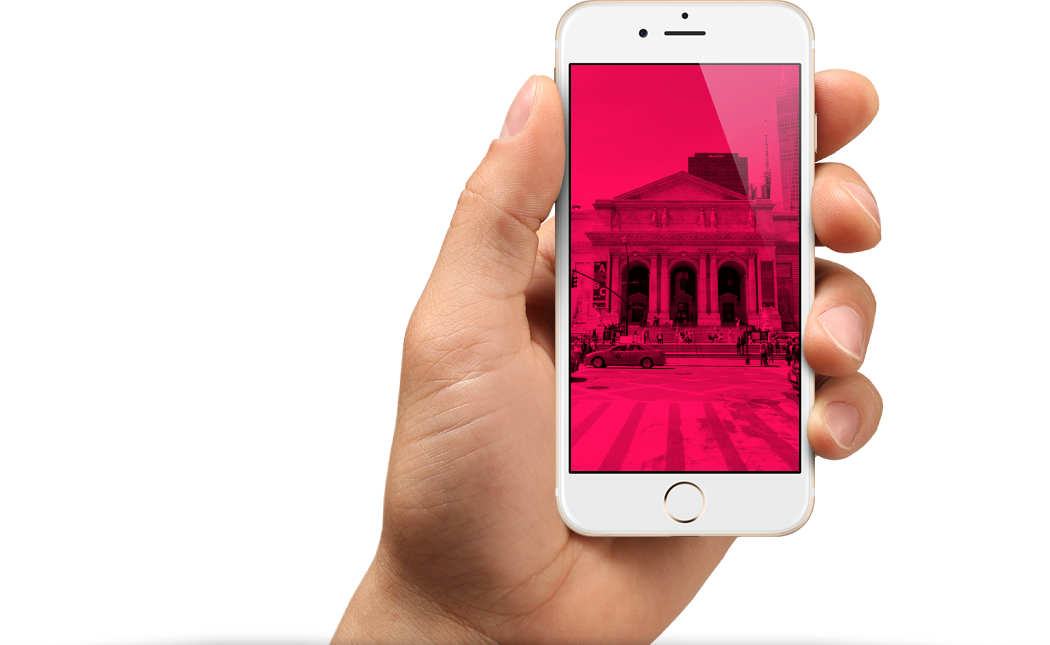
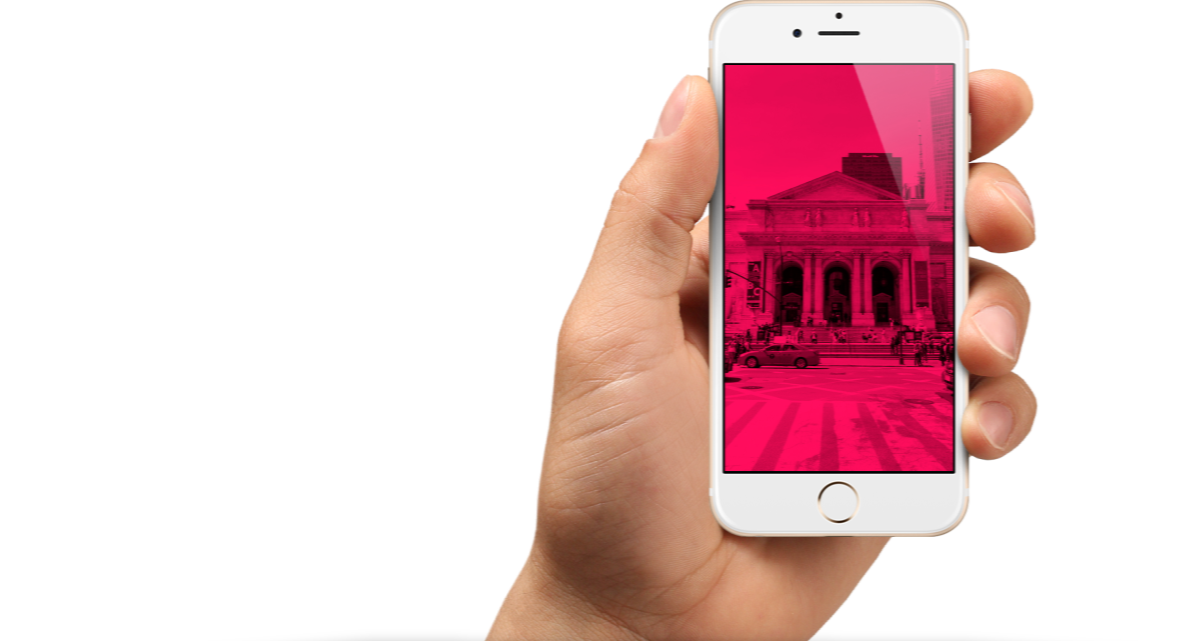
Выполнил стилизацию блока загрузки приложения

Changed region(s): [[0.1524, 0.0, 0.8838, 1.0]]

diff --git a/source/index.html b/source/index.html
@@ -6,23 +6,23 @@
     <link href="css/style.css" rel="stylesheet">
   </head>
   <body class="page__body">
-    <header class="page-header page-header--navigation-closed ">
+    <header class="page-header">
       <div class="page-header__logo logo">
         <a class="logo__link">
-          <svg class="logo__image logo__image--mobile" width="74" height="23" viewBox="0 0 74 23" fill="none" xmlns="http://www.w3.org/2000/svg">
+          <svg class="logo__image logo__image--main-page logo__image--mobile" width="74" height="23" viewBox="0 0 74 23" fill="none" xmlns="http://www.w3.org/2000/svg">
             <path d="M0.00496827 1.54857C0.00487772 1.21254 0.135804 0.889818 0.369742 0.649431C0.60368 0.409043 0.922049 0.27008 1.25676 0.262266H8.39001C13.4469 0.262266 16.7751 2.9645 16.7751 7.39179V7.45162C16.7751 12.2977 12.7415 14.8105 7.97274 14.8105H2.53836V21.611C2.55394 21.7874 2.53277 21.9651 2.47619 22.1329C2.41961 22.3006 2.32887 22.4547 2.20973 22.5854C2.09058 22.716 1.94565 22.8204 1.78416 22.8918C1.62266 22.9631 1.44812 23 1.27166 23C1.0952 23 0.920671 22.9631 0.759173 22.8918C0.597674 22.8204 0.452744 22.716 0.333602 22.5854C0.21446 22.4547 0.123708 22.3006 0.0671295 22.1329C0.0105515 21.9651 -0.0106138 21.7874 0.00496827 21.611V1.54857ZM8.07209 12.5171C11.7778 12.5171 14.2119 10.5228 14.2119 7.53139V7.47156C14.2119 4.26078 11.8175 2.59556 8.25092 2.59556H2.58804V12.4772L8.07209 12.5171Z" fill="white"/>
             <path d="M21.5935 1.38904C21.5779 1.21262 21.5991 1.03487 21.6556 0.867114C21.7122 0.699353 21.803 0.545245 21.9221 0.414596C22.0412 0.283947 22.1862 0.179616 22.3477 0.108238C22.5092 0.0368607 22.6837 0 22.8602 0C23.0366 0 23.2112 0.0368607 23.3727 0.108238C23.5342 0.179616 23.6791 0.283947 23.7982 0.414596C23.9174 0.545245 24.0081 0.699353 24.0647 0.867114C24.1213 1.03487 24.1425 1.21262 24.1269 1.38904V21.611C24.1425 21.7874 24.1213 21.9651 24.0647 22.1329C24.0081 22.3006 23.9174 22.4548 23.7982 22.5854C23.6791 22.7161 23.5342 22.8204 23.3727 22.8918C23.2112 22.9631 23.0366 23 22.8602 23C22.6837 23 22.5092 22.9631 22.3477 22.8918C22.1862 22.8204 22.0412 22.7161 21.9221 22.5854C21.803 22.4548 21.7122 22.3006 21.6556 22.1329C21.5991 21.9651 21.5779 21.7874 21.5935 21.611V1.38904Z" fill="white"/>
             <path d="M30.674 1.41895C30.6816 1.08908 30.8163 0.775007 31.0497 0.542621C31.2831 0.310235 31.597 0.177597 31.9258 0.172531H32.2735C32.5316 0.177833 32.7843 0.248188 33.0082 0.377127C33.2322 0.506065 33.4202 0.689448 33.5551 0.910412L47.1559 18.3104V1.35912C47.1559 1.0312 47.2857 0.7167 47.5168 0.484821C47.7478 0.252942 48.0611 0.122673 48.3879 0.122673C48.7146 0.122673 49.0279 0.252942 49.259 0.484821C49.49 0.7167 49.6198 1.0312 49.6198 1.35912V21.6508C49.6252 21.8051 49.5993 21.9589 49.5435 22.1028C49.4878 22.2467 49.4034 22.3777 49.2956 22.4878C49.1877 22.5979 49.0587 22.6848 48.9163 22.7432C48.7739 22.8016 48.6211 22.8303 48.4673 22.8275H48.3382C48.0744 22.8092 47.8184 22.7294 47.5908 22.5944C47.3631 22.4593 47.17 22.2728 47.0268 22.0497L33.1179 4.24085V21.6508C33.1158 21.9722 32.991 22.2805 32.7692 22.5124C32.5474 22.7442 32.2456 22.882 31.9258 22.8973C31.6008 22.892 31.291 22.7581 31.064 22.5246C30.8369 22.2911 30.711 21.9771 30.7137 21.6508V1.41895H30.674Z" fill="white"/>
             <path d="M55.9384 1.38904C55.9228 1.21262 55.944 1.03487 56.0005 0.867114C56.0571 0.699353 56.1479 0.545245 56.267 0.414596C56.3862 0.283947 56.5311 0.179616 56.6926 0.108238C56.8541 0.0368607 57.0286 0 57.2051 0C57.3815 0 57.5561 0.0368607 57.7176 0.108238C57.8791 0.179616 58.024 0.283947 58.1431 0.414596C58.2623 0.545245 58.353 0.699353 58.4096 0.867114C58.4662 1.03487 58.4874 1.21262 58.4718 1.38904V13.6837L71.2282 0.551443C71.4899 0.279712 71.8455 0.119105 72.2216 0.10273C72.5468 0.115453 72.8548 0.252812 73.0821 0.486531C73.3094 0.72025 73.4388 1.03254 73.4436 1.35912C73.4366 1.52896 73.3961 1.69572 73.3245 1.84975C73.2529 2.00379 73.1516 2.14205 73.0264 2.25655L65.0785 10.1539L73.6523 20.6836C73.8764 20.9441 73.9998 21.2768 74 21.6209C73.9961 21.7933 73.9583 21.9633 73.8887 22.121C73.8191 22.2786 73.719 22.4209 73.5943 22.5395C73.4696 22.6582 73.3228 22.7509 73.1622 22.8123C73.0016 22.8737 72.8305 22.9026 72.6588 22.8973C72.4588 22.8891 72.2639 22.8322 72.0908 22.7314C71.9177 22.6306 71.7716 22.4891 71.6653 22.3189L63.3001 11.859L58.4718 16.7051V21.591C58.4718 21.7573 58.4391 21.922 58.3757 22.0756C58.3123 22.2293 58.2194 22.3689 58.1022 22.4865C57.9851 22.6041 57.846 22.6973 57.6929 22.761C57.5398 22.8246 57.3757 22.8574 57.21 22.8574C57.0443 22.8574 56.8803 22.8246 56.7272 22.761C56.5741 22.6973 56.435 22.6041 56.3179 22.4865C56.2007 22.3689 56.1078 22.2293 56.0443 22.0756C55.9809 21.922 55.9483 21.7573 55.9483 21.591V1.38904H55.9384Z" fill="white"/>
           </svg>
-          <svg class="logo__image logo__image--tablet" width="145" height="40" viewBox="0 0 145 40" fill="none" xmlns="http://www.w3.org/2000/svg">
+          <svg class="logo__image logo__image--main-page logo__image--tablet" width="145" height="40" viewBox="0 0 145 40" fill="none" xmlns="http://www.w3.org/2000/svg">
             <path fill-rule="evenodd" clip-rule="evenodd" d="M53.8917 6.58616L58.9302 27.7312C59.0013 27.9491 59.0184 28.1815 58.98 28.4078C58.9417 28.6341 58.849 28.8472 58.7102 29.0284C58.5715 29.2096 58.3909 29.3532 58.1845 29.4465C57.978 29.5398 57.7522 29.58 57.5268 29.5635H53.5201C52.8298 35.3747 47.9494 39.8784 42.0315 39.8784C36.1136 39.8784 31.2332 35.3747 30.543 29.5635H28.5778C27.8869 35.442 22.9527 40 16.9685 40C10.9742 40 6.0335 35.4266 5.35571 29.5337H1.45014C1.22961 29.5445 1.00974 29.5014 0.808914 29.4082C0.608085 29.315 0.432119 29.1743 0.295711 28.9979C0.159304 28.8214 0.0664152 28.6144 0.0248022 28.3941C-0.0168108 28.1737 -0.00593994 27.9464 0.0565069 27.7312L5.10477 6.58616C5.45562 4.25872 7.63865 0 13.4861 0C13.8738 0 14.2456 0.156518 14.5197 0.435122C14.7939 0.713727 14.9479 1.0916 14.9479 1.4856C14.9479 1.87961 14.7939 2.25748 14.5197 2.53608C14.2456 2.81468 13.8738 2.9712 13.4861 2.9712C8.7789 2.9712 8.04797 6.6654 7.9895 7.07146L3.3408 26.6022H5.37467C6.12089 20.7847 11.0272 16.2918 16.9685 16.2918C22.9066 16.2918 27.8107 20.7798 28.5611 26.5926L30.5587 26.6017C31.3043 20.8518 36.1567 16.4134 42.0315 16.4134C47.9178 16.4134 52.7776 20.8691 53.5086 26.6353V26.5824H55.6459L51.007 7.07146C50.9387 6.6654 50.237 2.9712 45.5104 2.9712C45.1227 2.9712 44.7509 2.81468 44.4767 2.53608C44.2026 2.25748 44.0485 1.87961 44.0485 1.4856C44.0485 1.0916 44.2026 0.713727 44.4767 0.435122C44.7509 0.156518 45.1227 0 45.5104 0C51.3578 0 53.5408 4.25872 53.8917 6.58616ZM25.6722 29.5635C25.7448 29.1018 25.7825 28.6283 25.7825 28.1459C25.7825 27.6164 25.7371 27.0977 25.65 26.5935C24.9252 22.3982 21.3141 19.2097 16.9685 19.2097C12.6203 19.2097 9.00753 22.402 8.28571 26.601C8.19945 27.1028 8.15447 27.619 8.15447 28.1459C8.15447 28.6205 8.19096 29.0864 8.26125 29.541C8.92191 33.8136 12.5687 37.0821 16.9685 37.0821C21.3605 37.0821 25.0023 33.8251 25.6722 29.5635ZM50.6138 29.5635C50.6874 29.102 50.7256 28.6285 50.7256 28.1459C50.7256 23.2777 46.8331 19.3313 42.0315 19.3313C37.2299 19.3313 33.3374 23.2777 33.3374 28.1459C33.3374 28.6285 33.3756 29.102 33.4492 29.5635C34.118 33.7577 37.7058 36.9605 42.0315 36.9605C46.3572 36.9605 49.945 33.7577 50.6138 29.5635Z" fill="white"/>
             <path d="M71.005 18.5486C71.0049 18.2125 71.1358 17.8898 71.3697 17.6494C71.6037 17.409 71.9221 17.2701 72.2568 17.2623H79.39C84.4469 17.2623 87.7751 19.9645 87.7751 24.3918V24.4516C87.7751 29.2977 83.7415 31.8105 78.9727 31.8105H73.5384V38.611C73.5539 38.7874 73.5328 38.9651 73.4762 39.1329C73.4196 39.3006 73.3289 39.4547 73.2097 39.5854C73.0906 39.716 72.9457 39.8204 72.7842 39.8918C72.6227 39.9631 72.4481 40 72.2717 40C72.0952 40 71.9207 39.9631 71.7592 39.8918C71.5977 39.8204 71.4527 39.716 71.3336 39.5854C71.2145 39.4547 71.1237 39.3006 71.0671 39.1329C71.0106 38.9651 70.9894 38.7874 71.005 38.611V18.5486ZM79.0721 29.5171C82.7778 29.5171 85.2119 27.5228 85.2119 24.5314V24.4716C85.2119 21.2608 82.8175 19.5956 79.2509 19.5956H73.588V29.4772L79.0721 29.5171Z" fill="white"/>
             <path d="M92.5935 18.389C92.5779 18.2126 92.5991 18.0349 92.6556 17.8671C92.7122 17.6994 92.803 17.5452 92.9221 17.4146C93.0412 17.2839 93.1862 17.1796 93.3477 17.1082C93.5092 17.0369 93.6837 17 93.8602 17C94.0366 17 94.2112 17.0369 94.3727 17.1082C94.5342 17.1796 94.6791 17.2839 94.7982 17.4146C94.9174 17.5452 95.0081 17.6994 95.0647 17.8671C95.1213 18.0349 95.1424 18.2126 95.1269 18.389V38.611C95.1424 38.7874 95.1213 38.9651 95.0647 39.1329C95.0081 39.3006 94.9174 39.4548 94.7982 39.5854C94.6791 39.7161 94.5342 39.8204 94.3727 39.8918C94.2112 39.9631 94.0366 40 93.8602 40C93.6837 40 93.5092 39.9631 93.3477 39.8918C93.1862 39.8204 93.0412 39.7161 92.9221 39.5854C92.803 39.4548 92.7122 39.3006 92.6556 39.1329C92.5991 38.9651 92.5779 38.7874 92.5935 38.611V18.389Z" fill="white"/>
             <path d="M101.674 18.419C101.682 18.0891 101.816 17.775 102.05 17.5426C102.283 17.3102 102.597 17.1776 102.926 17.1725H103.273C103.532 17.1778 103.784 17.2482 104.008 17.3771C104.232 17.5061 104.42 17.6894 104.555 17.9104L118.156 35.3104V18.3591C118.156 18.0312 118.286 17.7167 118.517 17.4848C118.748 17.2529 119.061 17.1227 119.388 17.1227C119.715 17.1227 120.028 17.2529 120.259 17.4848C120.49 17.7167 120.62 18.0312 120.62 18.3591V38.6508C120.625 38.8051 120.599 38.9589 120.544 39.1028C120.488 39.2467 120.403 39.3777 120.296 39.4878C120.188 39.5979 120.059 39.6848 119.916 39.7432C119.774 39.8016 119.621 39.8303 119.467 39.8275H119.338C119.074 39.8092 118.818 39.7294 118.591 39.5944C118.363 39.4594 118.17 39.2728 118.027 39.0497L104.118 21.2408V38.6508C104.116 38.9722 103.991 39.2805 103.769 39.5124C103.547 39.7442 103.246 39.882 102.926 39.8973C102.601 39.892 102.291 39.7581 102.064 39.5246C101.837 39.2911 101.711 38.9771 101.714 38.6508V18.419H101.674Z" fill="white"/>
             <path d="M126.938 18.389C126.923 18.2126 126.944 18.0349 127.001 17.8671C127.057 17.6994 127.148 17.5452 127.267 17.4146C127.386 17.2839 127.531 17.1796 127.693 17.1082C127.854 17.0369 128.029 17 128.205 17C128.382 17 128.556 17.0369 128.718 17.1082C128.879 17.1796 129.024 17.2839 129.143 17.4146C129.262 17.5452 129.353 17.6994 129.41 17.8671C129.466 18.0349 129.487 18.2126 129.472 18.389V30.6837L142.228 17.5514C142.49 17.2797 142.845 17.1191 143.222 17.1027C143.547 17.1155 143.855 17.2528 144.082 17.4865C144.309 17.7202 144.439 18.0325 144.444 18.3591C144.437 18.529 144.396 18.6957 144.325 18.8498C144.253 19.0038 144.152 19.1421 144.026 19.2565L136.078 27.1539L144.652 37.6836C144.876 37.9441 145 38.2768 145 38.6209C144.996 38.7933 144.958 38.9633 144.889 39.121C144.819 39.2786 144.719 39.4209 144.594 39.5395C144.47 39.6582 144.323 39.7509 144.162 39.8123C144.002 39.8737 143.831 39.9026 143.659 39.8973C143.459 39.8891 143.264 39.8322 143.091 39.7314C142.918 39.6306 142.772 39.4891 142.665 39.3189L134.3 28.859L129.472 33.7051V38.591C129.472 38.7573 129.439 38.922 129.376 39.0756C129.312 39.2293 129.219 39.3689 129.102 39.4865C128.985 39.6041 128.846 39.6973 128.693 39.761C128.54 39.8246 128.376 39.8574 128.21 39.8574C128.044 39.8574 127.88 39.8246 127.727 39.761C127.574 39.6973 127.435 39.6041 127.318 39.4865C127.201 39.3689 127.108 39.2293 127.044 39.0756C126.981 38.922 126.948 38.7573 126.948 38.591V18.389H126.938Z" fill="white"/>
           </svg>
-          <svg class="logo__image logo__image--desktop" width="147" height="40" viewBox="0 0 147 40" fill="none" xmlns="http://www.w3.org/2000/svg">
+          <svg class="logo__image logo__image--main-page logo__image--desktop" width="147" height="40" viewBox="0 0 147 40" fill="none" xmlns="http://www.w3.org/2000/svg">
             <path d="M72.1933 18.4249C72.1932 18.0921 72.3255 17.7726 72.562 17.5345C72.7985 17.2965 73.1204 17.1589 73.4588 17.1511H80.6703C85.7826 17.1511 89.1473 19.827 89.1473 24.211V24.2703C89.1473 29.069 85.0695 31.5573 80.2484 31.5573H74.7544V38.2913C74.7702 38.466 74.7488 38.6421 74.6916 38.8082C74.6344 38.9743 74.5426 39.1269 74.4222 39.2563C74.3017 39.3856 74.1552 39.489 73.992 39.5596C73.8287 39.6303 73.6522 39.6668 73.4738 39.6668C73.2954 39.6668 73.119 39.6303 72.9557 39.5596C72.7925 39.489 72.6459 39.3856 72.5255 39.2563C72.405 39.1269 72.3133 38.9743 72.2561 38.8082C72.1989 38.6421 72.1775 38.466 72.1933 38.2913V18.4249ZM80.3489 29.2863C84.0952 29.2863 86.556 27.3115 86.556 24.3493V24.29C86.556 21.1106 84.1354 19.4616 80.5297 19.4616H74.8047V29.2468L80.3489 29.2863Z" fill="white"/>
             <path d="M94.0186 18.2669C94.0028 18.0922 94.0242 17.9162 94.0814 17.7501C94.1386 17.5839 94.2304 17.4313 94.3508 17.302C94.4713 17.1726 94.6178 17.0693 94.781 16.9986C94.9443 16.9279 95.1208 16.8914 95.2992 16.8914C95.4776 16.8914 95.654 16.9279 95.8173 16.9986C95.9806 17.0693 96.1271 17.1726 96.2475 17.302C96.368 17.4313 96.4597 17.5839 96.5169 17.7501C96.5741 17.9162 96.5955 18.0922 96.5798 18.2669V38.2913C96.5955 38.466 96.5741 38.642 96.5169 38.8082C96.4597 38.9743 96.368 39.1269 96.2475 39.2563C96.1271 39.3856 95.9806 39.489 95.8173 39.5596C95.654 39.6303 95.4776 39.6668 95.2992 39.6668C95.1208 39.6668 94.9443 39.6303 94.781 39.5596C94.6178 39.489 94.4713 39.3856 94.3508 39.2563C94.2304 39.1269 94.1386 38.9743 94.0814 38.8082C94.0242 38.642 94.0028 38.466 94.0186 38.2913V18.2669Z" fill="white"/>
             <path d="M103.199 18.2965C103.206 17.9699 103.343 17.6588 103.579 17.4287C103.815 17.1986 104.132 17.0673 104.464 17.0623H104.816C105.077 17.0675 105.332 17.1372 105.559 17.2649C105.785 17.3925 105.975 17.5741 106.111 17.7929L119.862 35.0231V18.2373C119.862 17.9125 119.993 17.6011 120.226 17.3715C120.46 17.1419 120.777 17.0129 121.107 17.0129C121.437 17.0129 121.754 17.1419 121.988 17.3715C122.221 17.6011 122.352 17.9125 122.352 18.2373V38.3308C122.358 38.4836 122.332 38.6359 122.275 38.7784C122.219 38.9209 122.134 39.0506 122.025 39.1596C121.916 39.2687 121.785 39.3547 121.641 39.4125C121.497 39.4704 121.343 39.4987 121.187 39.496H121.057C120.79 39.4779 120.531 39.3989 120.301 39.2652C120.071 39.1314 119.876 38.9468 119.731 38.7258L105.67 21.0908V38.3308C105.667 38.6491 105.541 38.9544 105.317 39.184C105.093 39.4135 104.788 39.5499 104.464 39.5651C104.136 39.5599 103.823 39.4272 103.593 39.1961C103.363 38.9649 103.236 38.6539 103.239 38.3308V18.2965H103.199Z" fill="white"/>
@@ -36,7 +36,7 @@
           </svg>
         </a>
       </div>
-      <nav class="page-header__navigation navigation navigation--closed">
+      <nav class="page-header__navigation navigation navigation--opened">
         <div class="navigation__toggle-wrapper">
           <button class="page-header__button navigation__toggle" type="button">
             <span class="visually-hidden">Открыть меню</span>
@@ -44,16 +44,16 @@
         </div>
         <ul class="navigation__list">
           <li class="navigation__item">
-            <a class="navigation__link navigation__link--current" href="#">Главная</a>
+            <a class="navigation__link navigation__link--current">Главная</a>
           </li>
           <li class="navigation__item">
-            <a class="navigation__link" href="#">Фотографии</a>
+            <a class="navigation__link" href="photo.html">Фотографии</a>
           </li>
           <li class="navigation__item">
-            <a class="navigation__link" href="#">Конкурс</a>
+            <a class="navigation__link" href="form.html">Конкурс</a>
           </li>
           <li class="navigation__item">
-            <a class="navigation__link" href="#">HTML Academy</a>
+            <a class="navigation__link" href="https://htmlacademy.ru/">HTML Academy</a>
           </li>
         </ul>
       </nav>
@@ -266,5 +266,24 @@
         </a>
       </div>
     </footer> -->
+    <script>
+      const navigationToggle = document.querySelector(".navigation__toggle");
+      const navigationList = document.querySelector(".navigation");
+      const pageHeader = document.querySelector(".page-header");
+
+      navigationToggle.addEventListener("click", function(evt) {
+        if (navigationList.classList.contains("navigation--closed")) {
+          evt.preventDefault();
+          navigationList.classList.add("navigation--opened");
+          navigationList.classList.remove("navigation--closed");
+          pageHeader.classList.remove("page-header--navigation-closed");
+        } else {
+          evt.preventDefault();
+          navigationList.classList.remove("navigation--opened");
+          navigationList.classList.add("navigation--closed");
+          pageHeader.classList.add("page-header--navigation-closed");
+        }
+      });
+    </script>
   </body>
 </html>

diff --git a/source/sass/blocks/download.scss b/source/sass/blocks/download.scss
@@ -6,7 +6,6 @@
   background-repeat: no-repeat;
   background-position: center 177px, center top;
   background-size: auto 286px, auto 462px;
-  // padding-bottom: 28px;
 
   @media (min-width: $tablet-width) {
     height: 729px;
@@ -15,54 +14,69 @@
     background-position: center bottom, center bottom;
     display: grid;
     grid-template-columns: 1fr 1fr;
-    // padding-top: 180px;
-    // padding-bottom: 119px;
+    padding-left: 20px;
+    padding-right: 20px;
   }
 
   @media (min-width: $desktop-width) {
     height: 853px;
-    background-image: url(../../img/phone-tablet.png), url(../../img/background-desktop.jpg);
-    background-size: auto 579px, auto 853px;
-    background-position: 305px bottom, center bottom;
-    display: grid;
-    grid-template-columns: 1fr 1fr;
+    background-image: url(../../img/phone-desktop.png), url(../../img/background-desktop.jpg);
+    background-size: auto 645px, auto 853px;
+    background-position: center bottom, center bottom;
+    display: flex;
+    justify-content: flex-start;
+    padding-left: 130px;
+    padding-right: 130px;
   }
 }
 
 .download__wrapper {
   box-sizing: border-box;
   padding-top: 65px;
-  padding-bottom: 28px; //
+  padding-bottom: 28px;
+  width: 320px;
   padding-left: 20px;
   padding-right: 20px;
-  // background-image: url(../../img/download-phone.png);
-  // background-repeat: no-repeat;
-  // background-position: center 176px;
+  margin-left: auto;
+  margin-right: auto;
 
   @media (min-width: $tablet-width) {
+    width: 300px;
+    padding-left: 0;
     padding-right: 0;
-    padding-top: 163px; //
-    padding-bottom: 119px; // +28
+    padding-top: 163px;
+    padding-bottom: 119px;
+  }
+
+  @media (min-width: $desktop-width) {
+    margin-left: 0;
+    margin-right: 0;
+    // width: 940px; //
   }
 }
 
 .download__slogan {
-  margin-bottom: 343px;
+  @media (max-width: $mobile-width-only) {
+    margin-bottom: 285px;
+    min-height: 116px;
+  }
 
   @media (min-width: $tablet-width) {
     margin-bottom: 31px;
-    margin-left: 10px;
-    margin-right: 10px;
   }
 }
 
 .download__button {
-  margin-bottom: 34px;
+  margin-bottom: 46px;
   margin-left: auto;
   margin-right: auto;
 
   @media (min-width: $tablet-width) {
     margin-bottom: 46px;
+  }
+
+  @media (min-width: $desktop-width) {
+    margin-bottom: 71px;
   }
 }
 
@@ -76,7 +90,7 @@
   margin-bottom: 12px;
 
   @media (min-width: $tablet-width) {
-    margin-bottom: 38px;
+    margin-bottom: 45px;
   }
 }
 
@@ -93,12 +107,6 @@
   &:focus {
     outline: auto;
   }
-}
-
-.download__image {
-  // width: 47px;
-  // height: 56px;
-  // object-fit: contain;
 }
 
 .download__devices {

diff --git a/source/sass/blocks/button-download.scss b/source/sass/blocks/button-download.scss
@@ -1,5 +1,7 @@
 .button {
-  display: block;
+  display: flex;
+  justify-content: center;
+  align-items: center;
 
   font-family: "Open Sans", "Arial", sans-serif;
   font-style: normal;
@@ -14,8 +16,9 @@
   border: 3px solid $white;
   box-sizing: border-box;
   border-radius: 29px;
-  padding: 16px 35px;
+  // padding: 16px 35px;
   width: 280px;
+  min-height: 55px;
 
   &:hover,
   &:focus {
@@ -29,5 +32,10 @@
 
   @media (min-width: $tablet-width) {
     width: 300px;
+  }
+
+  @media (min-width: $desktop-width) {
+    font-size: 21px;
+    min-height: 56px;
   }
 }

diff --git a/source/sass/blocks/navigation.scss b/source/sass/blocks/navigation.scss
@@ -18,7 +18,7 @@
   }
 
   .navigation__item {
-    margin-left: 78px;
+    margin-left: 80px;
 
     &:first-child {
       margin-left: 0;
@@ -206,6 +206,17 @@
 
   &:active {
     opacity: 0.3;
+  }
+}
+
+.navigation__link--current {
+  &:hover,
+  &:focus {
+    color: $white;
+  }
+
+  &:active {
+    opacity: 1;
   }
 }
 

diff --git a/source/sass/blocks/logo.scss b/source/sass/blocks/logo.scss
@@ -8,12 +8,12 @@
 }
 
 .logo__image {
-  &:hover path,
-  &:focus path {
+  &:not(.logo__image--main-page):hover path,
+  &:not(.logo__image--main-page):focus path {
     fill: $red;
   }
 
-  &:active path {
+  &:not(.logo__image--main-page):active path {
     fill: $white;
     fill-opacity: 0.3;
   }

diff --git a/source/sass/globals.scss b/source/sass/globals.scss
@@ -31,6 +31,9 @@ $desktop-width: 1200px;
   margin: 0;
   width: 100%;
   min-width: 320px;
+  max-width: 2560px;
+  margin-left: auto;
+  margin-right: auto;
 }
 
 
